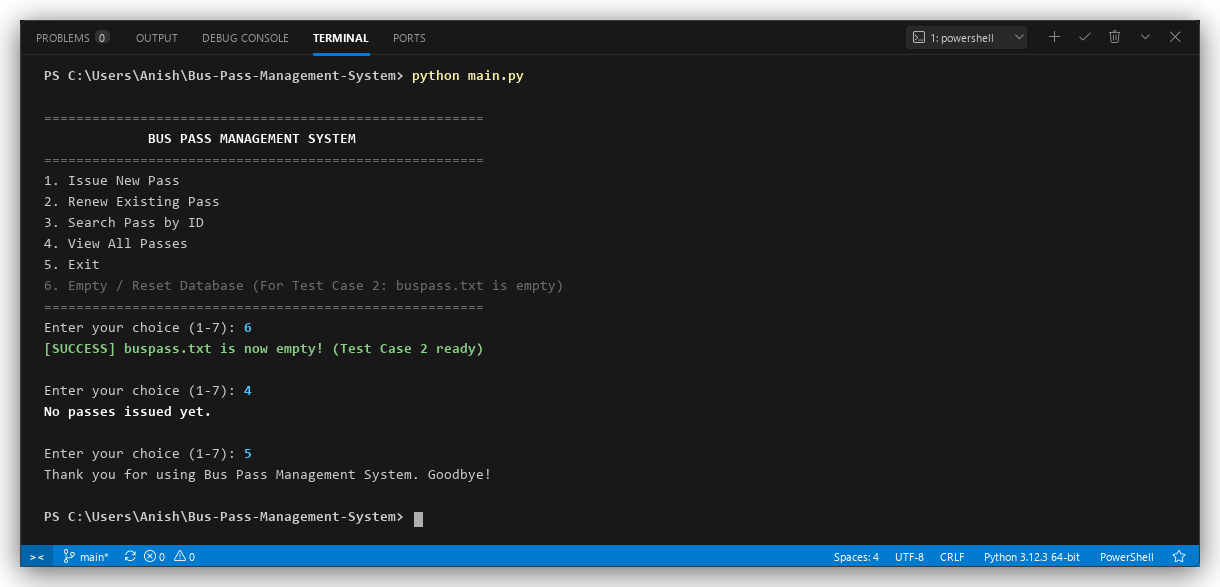
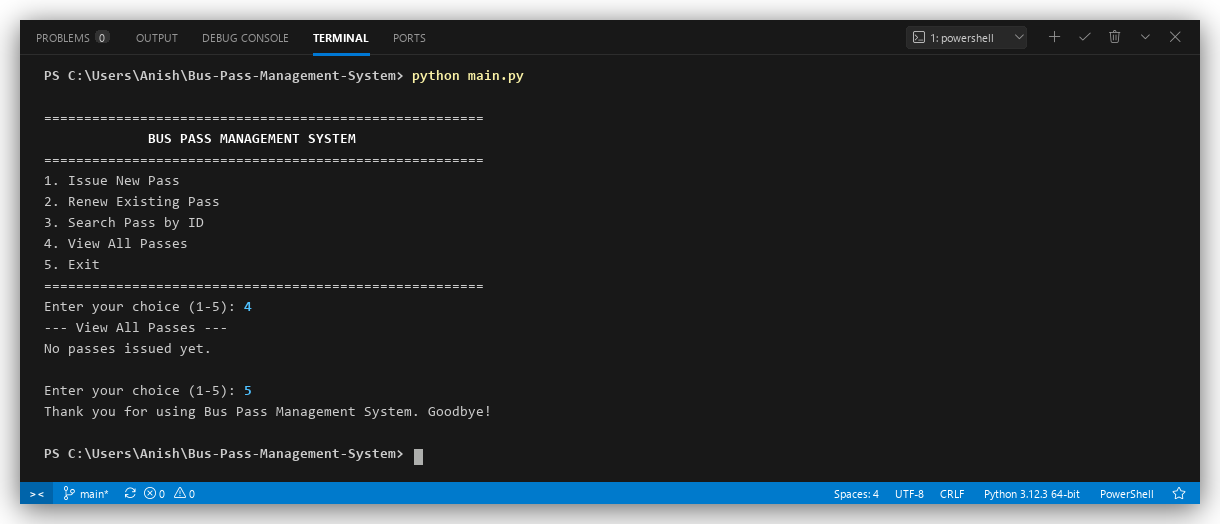
docs: align test case outputs and screenshots with authentic 1-5 console menu

diff --git a/summary.md b/summary.md
@@ -87,7 +87,7 @@ Let an issued or renewed pass have base tariff $F_{\text{base}}$ defined by dura
 | **Pass Type** | `Monthly`, `Quarterly`, `Yearly` | Case-insensitive normalized; labeled inputs like `Type: Monthly` stripped | `Invalid pass type. Choose Monthly, Quarterly or Yearly. Pass not issued.` |
 | **Category** | `General`, `Student` | Case-insensitive normalized; unsupported categories rejected | `Invalid category. Choose Student or General. Pass not issued.` |
 | **Pass ID** | Alphanumeric `BP\d+` | Strip prefixes (`ID: BP101`, `ID BP101`, `bp101` $\rightarrow$ `BP101`) | `Pass with ID {id} not found.` |
-| **Menu Choice** | Integer $\in [1, 7]$ | Handles digits, verbose labels (`Menu option 1 (Issue)`), and single-line syntax | Reprompts user with prescriptive error guidance |
+| **Menu Choice** | Integer $\in [1, 5]$ | Handles digits, verbose labels (`Menu option 1 (Issue)`), and single-line syntax | Reprompts user with prescriptive error guidance |
 
 ---
 
@@ -116,7 +116,7 @@ The system has been evaluated across the required operational test scenarios fro
 ![Test Case 1 VS Code Terminal Execution](screenshots/test_case_1_normal.png)
 
 ```text
-Enter your choice (1-7): 1
+Enter your choice (1-5): 1
 Name: Riya
 Route: Route 5
 Type: Monthly
@@ -128,7 +128,7 @@ Pass issued. ID: BP101 | Riya | Route 5 | Monthly | Fee: Rs. 500 | Valid: 30 day
 
 ### Test Case 2: Boundary / Minimum Input (Empty File)
 * **Scenario**: Querying all passes when `buspass.txt` is completely empty.
-* **Precondition**: `buspass.txt` is empty (Option `6`).
+* **Precondition**: `buspass.txt` is empty.
 * **Execution**: Menu Option `4` (View all passes)
 * **Output**: `No passes issued yet.`
 * **Status**: **PASS**
@@ -136,10 +136,7 @@ Pass issued. ID: BP101 | Riya | Route 5 | Monthly | Fee: Rs. 500 | Valid: 30 day
 ![Test Case 2 VS Code Terminal Execution](screenshots/test_case_2_boundary.png)
 
 ```text
-Enter your choice (1-7): 6
-[SUCCESS] buspass.txt is now empty! (Test Case 2 ready)
-
-Enter your choice (1-7): 4
+Enter your choice (1-5): 4
 No passes issued yet.
 ```
 
@@ -155,7 +152,7 @@ No passes issued yet.
 ![Test Case 3 VS Code Terminal Execution](screenshots/test_case_3_invalid.png)
 
 ```text
-Enter your choice (1-7): 1
+Enter your choice (1-5): 1
 Name: Aman
 Route: Route 7
 Type: Weekly
@@ -167,7 +164,7 @@ Invalid pass type. Choose Monthly, Quarterly or Yearly. Pass not issued.
 
 ### Test Case 4: Existing File & Multi-Operation Verification
 * **Scenario**: Pre-existing pass file contains record `BP101`. Settle new Yearly Student pass with 25% discount, then perform case-insensitive ID search.
-* **Precondition**: `buspass.txt` pre-seeded with: `BP101 | Riya | Route 5 | Monthly | Rs. 500` (Option `7`).
+* **Precondition**: `buspass.txt` pre-seeded with: `BP101 | Riya | Route 5 | Monthly | Rs. 500`.
 * **Action (a)**: Option `1` (Issue): Name: `Aman`, Route: `Route 7`, Type: `Yearly`, Category: `Student`
   * *Fee Calculation*: $4800 \times 0.75 = \mathbf{Rs.\; 3600}$
   * *Output (a)*: `Pass issued. ID: BP102 | Aman | Route 7 | Yearly | Fee: Rs. 3600 | Valid: 365 days`
@@ -178,16 +175,14 @@ Invalid pass type. Choose Monthly, Quarterly or Yearly. Pass not issued.
 ![Test Case 4 VS Code Terminal Execution](screenshots/test_case_4_multi_operation.png)
 
 ```text
-[SUCCESS] buspass.txt initialized with: BP101 | Riya | Route 5 | Monthly | Rs. 500 (Test Case 4 ready)
-
-Enter your choice (1-7): 1
+Enter your choice (1-5): 1
 Name: Aman
 Route: Route 7
 Type: Yearly
 Category: Student
 Pass issued. ID: BP102 | Aman | Route 7 | Yearly | Fee: Rs. 3600 | Valid: 365 days
 
-Enter your choice (1-7): 3
+Enter your choice (1-5): 3
 Enter Pass ID: BP101
 BP101 | Riya | Route 5 | Monthly | Fee: Rs. 500
 ```
@@ -204,7 +199,7 @@ BP101 | Riya | Route 5 | Monthly | Fee: Rs. 500
 ![Test Case 5 VS Code Terminal Execution](screenshots/test_case_5_renewal.png)
 
 ```text
-Enter your choice (1-7): 2
+Enter your choice (1-5): 2
 Enter Pass ID to renew: BP101
 Enter Pass Type (Monthly/Quarterly/Yearly) [Current: Monthly]: Quarterly
 Enter Category (General/Student) [Current: General]: Student
